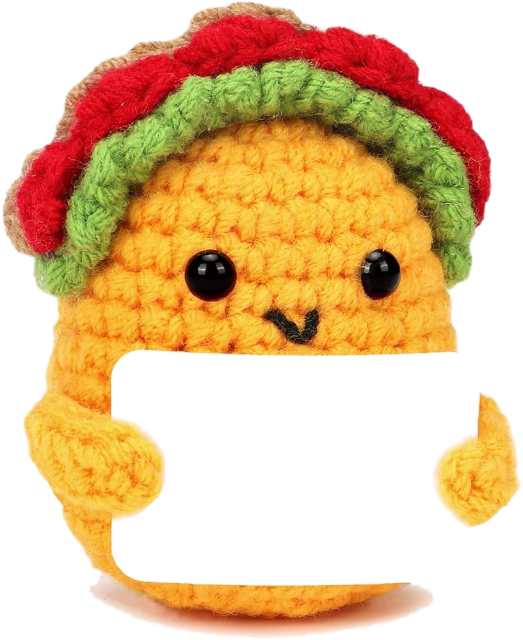
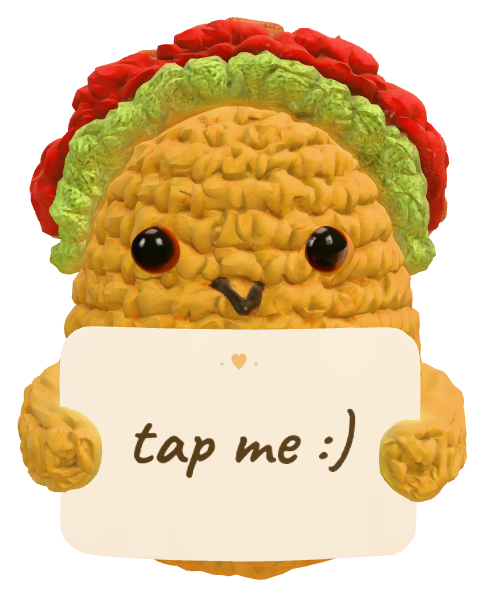
Replace downloaded buddy photos with 3D-rendered portraits
The Buddies panel, unlock popups, card-book avatar, README media and the
website's buddy vignettes all used product photos downloaded from the web.
They now use renders of the app's own 3D models holding the card at its
resting face ("tap me :)" + heart).

- buddy-studio.html + src/buddy-studio.ts: dev-only studio page (sibling of
  icon-studio.html) that drives the real PetScene one frame per buddy with
  per-buddy lighting on a transparent background, crops to the alpha bbox,
  and saves through the new /__char-save middleware in vite.config.ts
- app/public/chars/char-*.png, docs/media/char-*.png, web/assets/char/*.png:
  regenerated portraits (same filenames, no UI changes needed)
- docs/media/buddies.png: re-shot Buddies panel screenshot from the app
- COPYRIGHT.txt wording now matches how the portraits are actually made

diff --git a/app/src/buddy-studio.ts b/app/src/buddy-studio.ts
@@ -1,0 +1,118 @@
+// Buddy portrait studio — dev-only page (buddy-studio.html), sibling of
+// icon-studio.html. Drives the real PetScene for a single frame per buddy:
+// transparent background, each buddy's own lighting rig, and the held card
+// showing its resting face ("· ♥ ·" / "tap me :)" — the same thing the card
+// says in-app before the day's draw). Each frame is cropped to its alpha
+// bounding box and POSTed to the dev-server middleware (vite.config.ts),
+// which writes public/chars/char-<id>.png — the portraits the Buddies panel,
+// unlock popups and card-book avatar all read.
+import { CHARS } from './content';
+import { PetScene } from './scene/scene';
+import type { CharId } from './types';
+
+const SIZE = 768;
+// icon-studio's proven square framing (design 1b), reused verbatim
+const CAM: [number, number, number] = [0, 1.56, 6.2];
+const LOOK: [number, number, number] = [0, 1.04, 0];
+const FOV = 25.5;
+const PAD = 0.03; // breathing room around the alpha bbox, fraction of its size
+
+const status = (m: string) => (document.getElementById('status')!.textContent = m);
+
+async function main(): Promise<void> {
+  const gl = document.createElement('canvas');
+  gl.width = gl.height = SIZE;
+
+  // PetScene starts its own rAF loop in the constructor; swallow that one
+  // registration so we can render single frames manually instead
+  const raf = window.requestAnimationFrame;
+  window.requestAnimationFrame = () => 0;
+  const scene = new PetScene(gl);
+  window.requestAnimationFrame = raf;
+
+  scene.renderer.setPixelRatio(1);
+  scene.renderer.setSize(SIZE, SIZE, false);
+  scene.camera.aspect = 1;
+  scene.camera.fov = FOV;
+  scene.camera.updateProjectionMatrix();
+  scene.camera.position.set(...CAM);
+  scene.camera.lookAt(...LOOK);
+  // portraits are cutouts — the panels they sit in supply the ground
+  scene.shadow.visible = false;
+  // the app normalizes buddies to 1.5 for speech-bubble headroom the studio
+  // doesn't have — fill the square frame like the icon's 2.0 instead
+  scene.holder.scale.multiplyScalar(2 / 1.5);
+
+  // the card text must not rasterize with fallback fonts
+  await Promise.all([
+    document.fonts.load('700 48px Caveat'),
+    document.fonts.load('800 24px Nunito'),
+  ]);
+
+  for (const ch of CHARS) {
+    status(`rendering ${ch.name}…`);
+    await renderOne(scene, gl, ch.id, ch.name);
+  }
+  status('saved all portraits to public/chars/ — review them below');
+}
+
+async function renderOne(scene: PetScene, gl: HTMLCanvasElement, id: CharId, name: string): Promise<void> {
+  await scene.setCharacter(id);
+  scene.cardScreen.redraw(); // attach() may have first painted before the fonts resolved
+  scene.renderer.render(scene.scene, scene.camera);
+  const portrait = cropAlpha(gl);
+
+  const blob = await new Promise<Blob | null>((r) => portrait.toBlob(r, 'image/png'));
+  if (!blob) throw new Error('toBlob failed');
+  const res = await fetch(`/__char-save?id=${id}`, { method: 'POST', body: blob });
+  if (!res.ok) throw new Error(`save ${id} failed: ${res.status}`);
+
+  const cell = document.createElement('div');
+  cell.className = 'cell';
+  cell.appendChild(portrait);
+  const nm = document.createElement('div');
+  nm.className = 'nm';
+  nm.textContent = `${name} · ${portrait.width}×${portrait.height}`;
+  cell.appendChild(nm);
+  document.getElementById('grid')!.appendChild(cell);
+}
+
+// tight-crop the transparent frame the way the shipped portraits are cropped,
+// so `.pic`'s contain-fit sizes every buddy consistently
+function cropAlpha(gl: HTMLCanvasElement): HTMLCanvasElement {
+  const w = gl.width;
+  const h = gl.height;
+  const flat = document.createElement('canvas');
+  flat.width = w;
+  flat.height = h;
+  const fctx = flat.getContext('2d')!;
+  fctx.drawImage(gl, 0, 0); // must happen in the same task as the GL render
+  const a = fctx.getImageData(0, 0, w, h).data;
+  let minX = w, minY = h, maxX = -1, maxY = -1;
+  for (let y = 0; y < h; y++) {
+    for (let x = 0; x < w; x++) {
+      if (a[(y * w + x) * 4 + 3] > 8) {
+        if (x < minX) minX = x;
+        if (x > maxX) maxX = x;
+        if (y < minY) minY = y;
+        if (y > maxY) maxY = y;
+      }
+    }
+  }
+  if (maxX < 0) throw new Error('empty render');
+  const pad = Math.round(Math.max(maxX - minX, maxY - minY) * PAD);
+  minX = Math.max(0, minX - pad);
+  minY = Math.max(0, minY - pad);
+  maxX = Math.min(w - 1, maxX + pad);
+  maxY = Math.min(h - 1, maxY + pad);
+  const out = document.createElement('canvas');
+  out.width = maxX - minX + 1;
+  out.height = maxY - minY + 1;
+  out.getContext('2d')!.drawImage(flat, -minX, -minY);
+  return out;
+}
+
+main().catch((e) => {
+  console.error('buddy studio failed', e);
+  status('failed: ' + (e instanceof Error ? e.message : String(e)));
+});

diff --git a/app/vite.config.ts b/app/vite.config.ts
@@ -26,9 +26,35 @@ const iconSave: Plugin = {
   },
 };
 
+// dev-only: buddy-studio.html POSTs each buddy's cropped 3D portrait here so
+// the Buddies panel / unlock popups / card-book avatar show our own renders
+const charSave: Plugin = {
+  name: 'char-save',
+  configureServer(server) {
+    server.middlewares.use('/__char-save', (req, res) => {
+      if (req.method !== 'POST') {
+        res.statusCode = 405;
+        return res.end('POST only');
+      }
+      const id = new URL(req.url ?? '', 'http://localhost').searchParams.get('id') ?? '';
+      if (!/^[a-z]+$/.test(id)) {
+        res.statusCode = 400;
+        return res.end('bad id');
+      }
+      const chunks: Buffer[] = [];
+      req.on('data', (c: Buffer) => chunks.push(c));
+      req.on('end', () => {
+        const out = path.join(here, 'public', 'chars', `char-${id}.png`);
+        fs.writeFileSync(out, Buffer.concat(chunks));
+        res.end('saved');
+      });
+    });
+  },
+};
+
 export default defineConfig({
   base: './',
-  plugins: [iconSave],
+  plugins: [iconSave, charSave],
   build: {
     outDir: 'dist',
     target: 'chrome120',

diff --git a/app/buddy-studio.html b/app/buddy-studio.html
@@ -1,0 +1,23 @@
+<!DOCTYPE html>
+<html>
+<head>
+<meta charset="utf-8">
+<title>Spuddy buddy studio</title>
+<link rel="preconnect" href="https://fonts.googleapis.com" />
+<link rel="preconnect" href="https://fonts.gstatic.com" crossorigin="anonymous" />
+<link href="https://fonts.googleapis.com/css2?family=Nunito:wght@400;600;700;800;900&family=Caveat:wght@500;600;700&display=swap" rel="stylesheet" />
+<style>
+  body { margin: 0; padding: 24px; background: #F0EAE0; font: 14px/1.4 sans-serif; color: #3E3226; }
+  #status { margin-bottom: 16px; font-weight: 700; }
+  #grid { display: flex; gap: 16px; flex-wrap: wrap; }
+  .cell { background: #FFF9EF; border: 1px solid #E4D9C3; border-radius: 16px; padding: 14px 18px; text-align: center; }
+  .cell canvas { display: block; height: 150px; width: auto; margin: 0 auto; }
+  .cell .nm { margin-top: 8px; font-weight: 800; }
+</style>
+</head>
+<body>
+<div id="status">loading buddies…</div>
+<div id="grid"></div>
+<script type="module" src="./src/buddy-studio.ts"></script>
+</body>
+</html>

diff --git a/app/README.md b/app/README.md
@@ -127,6 +127,24 @@ shadow) and writes:
 - `assets/trayTemplate.png` (+`@2x`) — a monochrome menu-bar template (macOS
   tints it for the light/dark bar).
 
+## Buddy portraits
+
+`public/chars/char-<id>.png` — the pictures in the Buddies panel, the unlock
+popups and the card-book avatar — are 3D renders of the shipped models holding
+their card at its resting face ("· ♥ ·" / "tap me :)"). Regenerate them after
+a model or lighting change from the same dev server as the icon:
+
+```bash
+yarn vite --port 5199        # from app/, then open
+# http://localhost:5199/buddy-studio.html
+```
+
+`buddy-studio.html` (script: `src/buddy-studio.ts`) drives the real PetScene
+for one frame per buddy — transparent background, per-buddy lighting, ground
+shadow hidden — crops each frame to its alpha bounding box, and auto-saves all
+six PNGs through the `/__char-save` dev-server middleware (see
+`vite.config.ts`).
+
 ## Project layout
 
 - `electron/src/*.ts` — the main process (bundled to `electron/main.cjs` +
